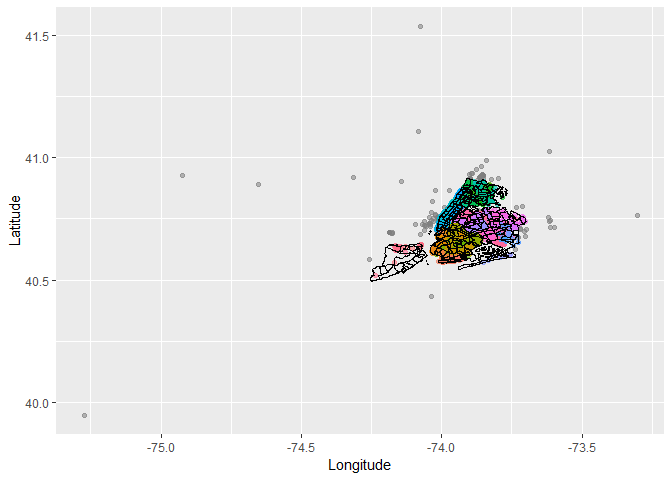
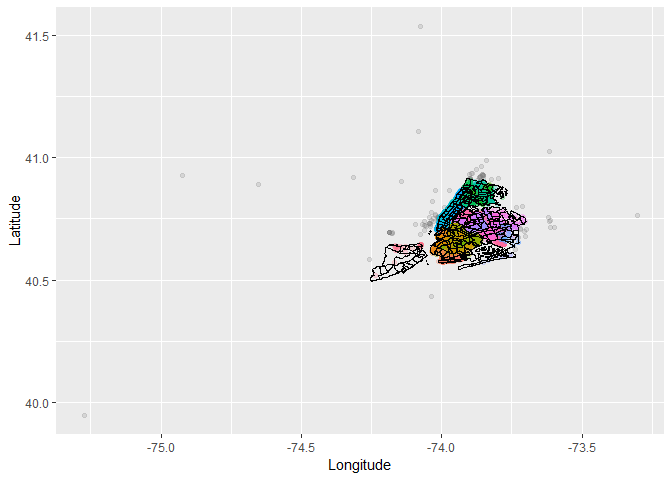
fix: vocab

Changed region(s): [[0.6875, 0.3438, 0.8438, 0.5312], [0.625, 0.4375, 0.6562, 0.5], [0.5938, 0.5, 0.625, 0.5312]]

diff --git a/exploratoryPhase/README.md b/exploratoryPhase/README.md
@@ -11,9 +11,9 @@ I wanted to visualize the density of the `trip_distance`, I used
 
     threshold <- quantile(taxiData$trip_distance, probs=0.9)
 
-    ggplot(taxiData, aes(x=trip_distance, fill=taxi_color, alpha=I(0.4))) + 
+    ggplot(taxiData, aes(x=trip_distance, fill=taxi_color, alpha=I(0.4))) +
       xlim(min(taxiData$trip_distance),max(taxiData$trip_distance)) +
-      geom_density() + 
+      geom_density() +
       geom_vline(xintercept=threshold) +
       scale_fill_manual(values=c("#006600", "#e5e500")) +
       labs(fill = 'Taxi Color', x = 'Trip Distance (in miles)', y = 'Density')
@@ -25,8 +25,8 @@ modal with the new trip distance threshold
 
     distance_type_label <- c('TRUE' = paste('Trip Distance > ', threshold), 'FALSE' = paste('Trip Distance <= ', threshold))
     ggplot(transform(taxiData,
-                     long_distance = trip_distance > threshold), aes(x=trip_distance, fill=taxi_color, alpha=I(0.4))) + 
-      geom_density() + 
+                     long_distance = trip_distance > threshold), aes(x=trip_distance, fill=taxi_color, alpha=I(0.4))) +
+      geom_density() +
       scale_fill_manual(values=c("#006600", "#e5e500")) +
       facet_grid (~long_distance,scales = "free", labeller=as_labeller(distance_type_label)) +
       labs(fill = 'Taxi Color', x = 'Trip Distance (in miles)', y = 'Density')
@@ -40,9 +40,9 @@ Running the same logic on `fare_amount` values
 
     threshold <- quantile(taxiData$fare_amount, probs=0.9)
 
-    ggplot(taxiData, aes(x=fare_amount, fill=taxi_color, alpha=I(0.4))) + 
+    ggplot(taxiData, aes(x=fare_amount, fill=taxi_color, alpha=I(0.4))) +
       xlim(min(taxiData$fare_amount),max(taxiData$fare_amount)) +
-      geom_density() + 
+      geom_density() +
       geom_vline(xintercept=threshold) +
       scale_fill_manual(values=c("#006600", "#e5e500")) +
       labs(fill = 'Taxi Color', x = 'Trip Distance (in miles)', y = 'Density')
@@ -53,8 +53,8 @@ Running the same logic on `fare_amount` values
 
     amount_type_label <- c('TRUE' = paste('Fare Amount > ', threshold), 'FALSE' = paste('Fare Amount <= ', threshold))
     ggplot(transform(taxiData,
-                     long_distance = trip_distance > threshold), aes(x=trip_distance, fill=taxi_color, alpha=I(0.4))) + 
-      geom_density() + 
+                     long_distance = trip_distance > threshold), aes(x=trip_distance, fill=taxi_color, alpha=I(0.4))) +
+      geom_density() +
       scale_fill_manual(values=c("#006600", "#e5e500")) +
       facet_grid (~long_distance,scales = "free", labeller=as_labeller(amount_type_label)) +
       labs(fill = 'Taxi Color', x = 'Fare Amount', y = 'Density')
@@ -81,11 +81,11 @@ provided by
                          source = "google"),
                  extent="device",
                  legend="topright"
-    )+ geom_point(aes(x=pickup_longitude, y=pickup_latitude, color=taxi_color), 
-                  data=taxiData, 
-                   alpha=0.2
-    )  + 
-      geom_polygon(data = shp, aes(x = long, y = lat, group = group), colour = "black", fill = NA) 
+    )+ geom_point(aes(x=pickup_longitude, y=pickup_latitude, color=taxi_color),
+                  data=taxiData,
+                   alpha=I(0.2)
+    )  +
+      geom_polygon(data = shp, aes(x = long, y = lat, group = group), color = "black", fill = NA)
 
     ## Source : https://maps.googleapis.com/maps/api/staticmap?center=New%20York&zoom=10&size=640x640&scale=2&maptype=terrain&language=en-EN&key=xxx
 
@@ -97,9 +97,9 @@ provided by
 
 ![](README_files/figure-markdown_strict/unnamed-chunk-5-1.png)
 
-I layed the pickup location projections over the neighberhoods shapes
-and retreived the neighberhood name and code. I created the same
-previous plot with neighberhood color indexes
+I projected the pickup location over the neighborhoods shapes and
+retrieved the neighborhood name and code. I created the same previous
+plot with neighborhood color indexes
 
     spacialTaxiData <- taxiData
     coordinates(spacialTaxiData)=~pickup_longitude+pickup_latitude
@@ -110,40 +110,40 @@ previous plot with neighberhood color indexes
     taxiData$ntaname <- unlist(spacialTaxiData$nhoodID['ntaname'])
     taxiData$ntacode <- unlist(spacialTaxiData$nhoodID['ntacode'])
 
-    ggplot(taxiData, aes(x=pickup_longitude, y=pickup_latitude)) + 
-      geom_point(aes(color=ntacode, alpha=0.2))+ theme(legend.position = "none")  + 
-      geom_polygon(data = shp, aes(x = long, y = lat, group = group), colour = "black", fill = NA) +
-      labs(x = 'Longitude', y = 'Latitude') 
+    ggplot(taxiData, aes(x=pickup_longitude, y=pickup_latitude)) +
+      geom_point(aes(color=ntacode, alpha=I(0.2)))+ theme(legend.position = "none")  +
+      geom_polygon(data = shp, aes(x = long, y = lat, group = group), color = "black", fill = NA) +
+      labs(x = 'Longitude', y = 'Latitude')
 
     ## Regions defined for each Polygons
 
 ![](README_files/figure-markdown_strict/unnamed-chunk-6-1.png)
 
-Summary extracted from the neighberhood data
+Summary extracted from the neighborhood data
 
-Highest 15 neighberhoods
+Highest 15 neighborhoods
 
     nhoodSummary <- taxiData %>% group_by(ntacode) %>%
       summarise(count=n())
     colnames(nhoodSummary) <- c("ntacode", "value")
 
-    first15NH <- nhoodSummary %>% arrange(desc(value)) %>% head(15) 
+    first15NH <- nhoodSummary %>% arrange(desc(value)) %>% head(15)
     d <- taxiData[taxiData$ntacode %in% first15NH$ntacode,]
 
-    ggplot(d, aes(x=ntacode, fill=taxi_color, alpha=0.4)) +
-      geom_bar() + 
-      labs(x = 'Neighberhood Code', y = 'Trips Density', fill = 'Taxi Color') +
+    ggplot(d, aes(x=ntacode, fill=taxi_color, alpha=I(0.4))) +
+      geom_bar() +
+      labs(x = 'Neighborhood Code', y = 'Trips Density', fill = 'Taxi Color') +
       scale_fill_manual(values=c("#006600", "#e5e500"))
 
 ![](README_files/figure-markdown_strict/unnamed-chunk-7-1.png)
 
 Lowest 15 neighberhoods
 
-    last15NH <- nhoodSummary %>% arrange(value) %>% head(15) 
+    last15NH <- nhoodSummary %>% arrange(value) %>% head(15)
     d <- taxiData[taxiData$ntacode %in% last15NH$ntacode,]
 
-    ggplot(d, aes(x=ntacode, fill=taxi_color, alpha=0.4)) +
-      geom_bar() + 
+    ggplot(d, aes(x=ntacode, fill=taxi_color, alpha=I(0.4))) +
+      geom_bar() +
       labs(x = 'Neighberhood Code', y = 'Trips Density', fill = 'Taxi Color') +
       scale_fill_manual(values=c("#006600", "#e5e500"))
 
